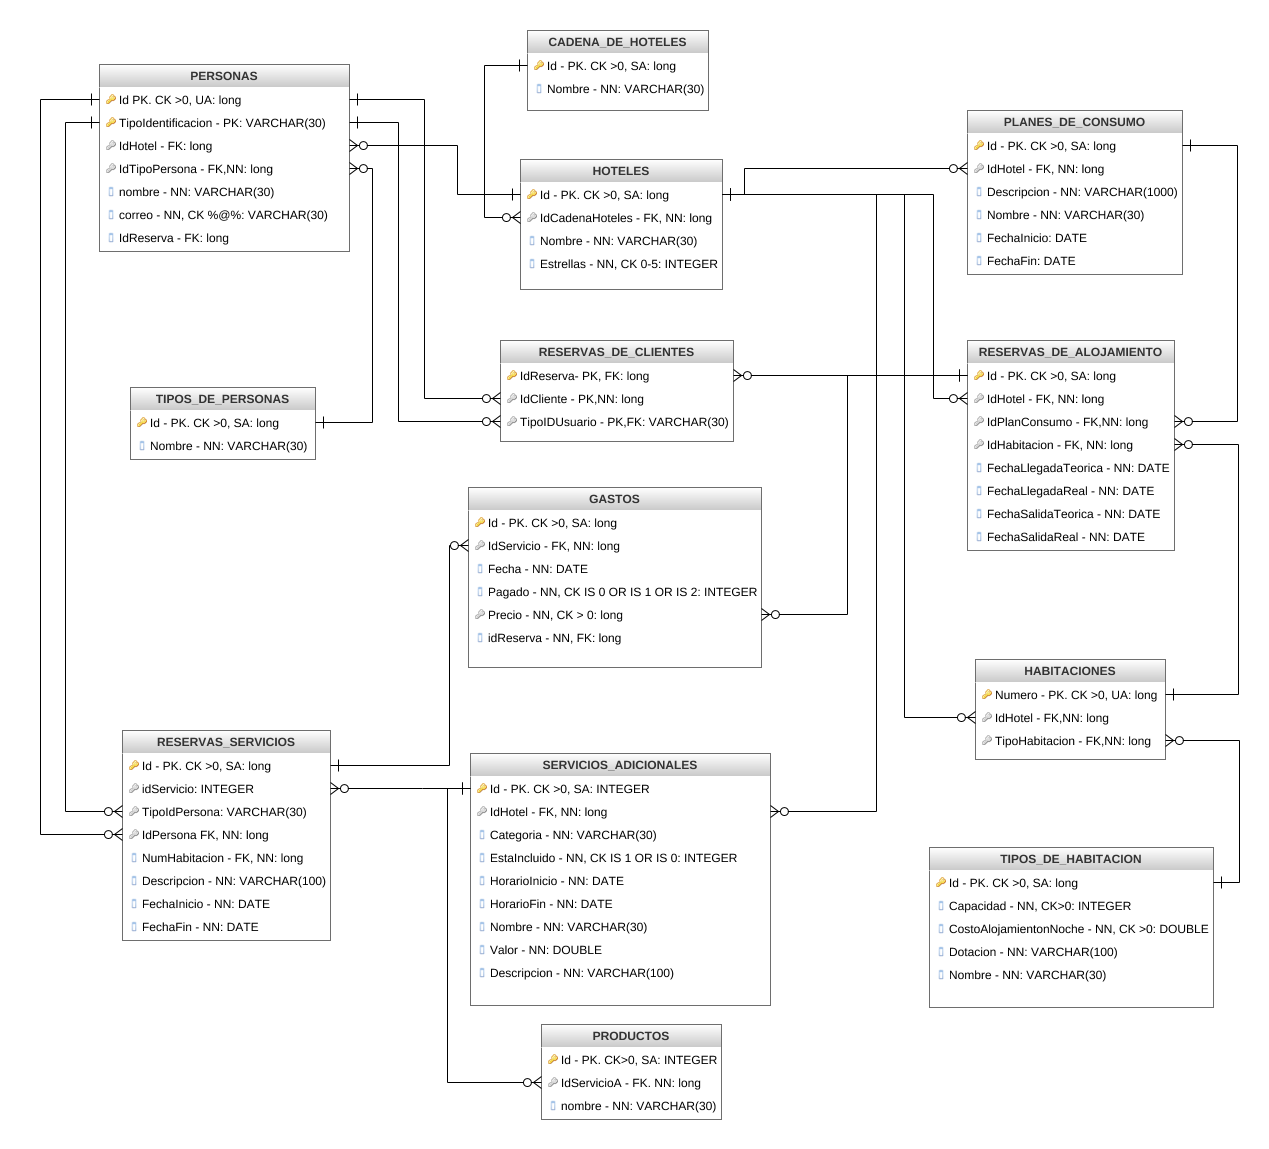
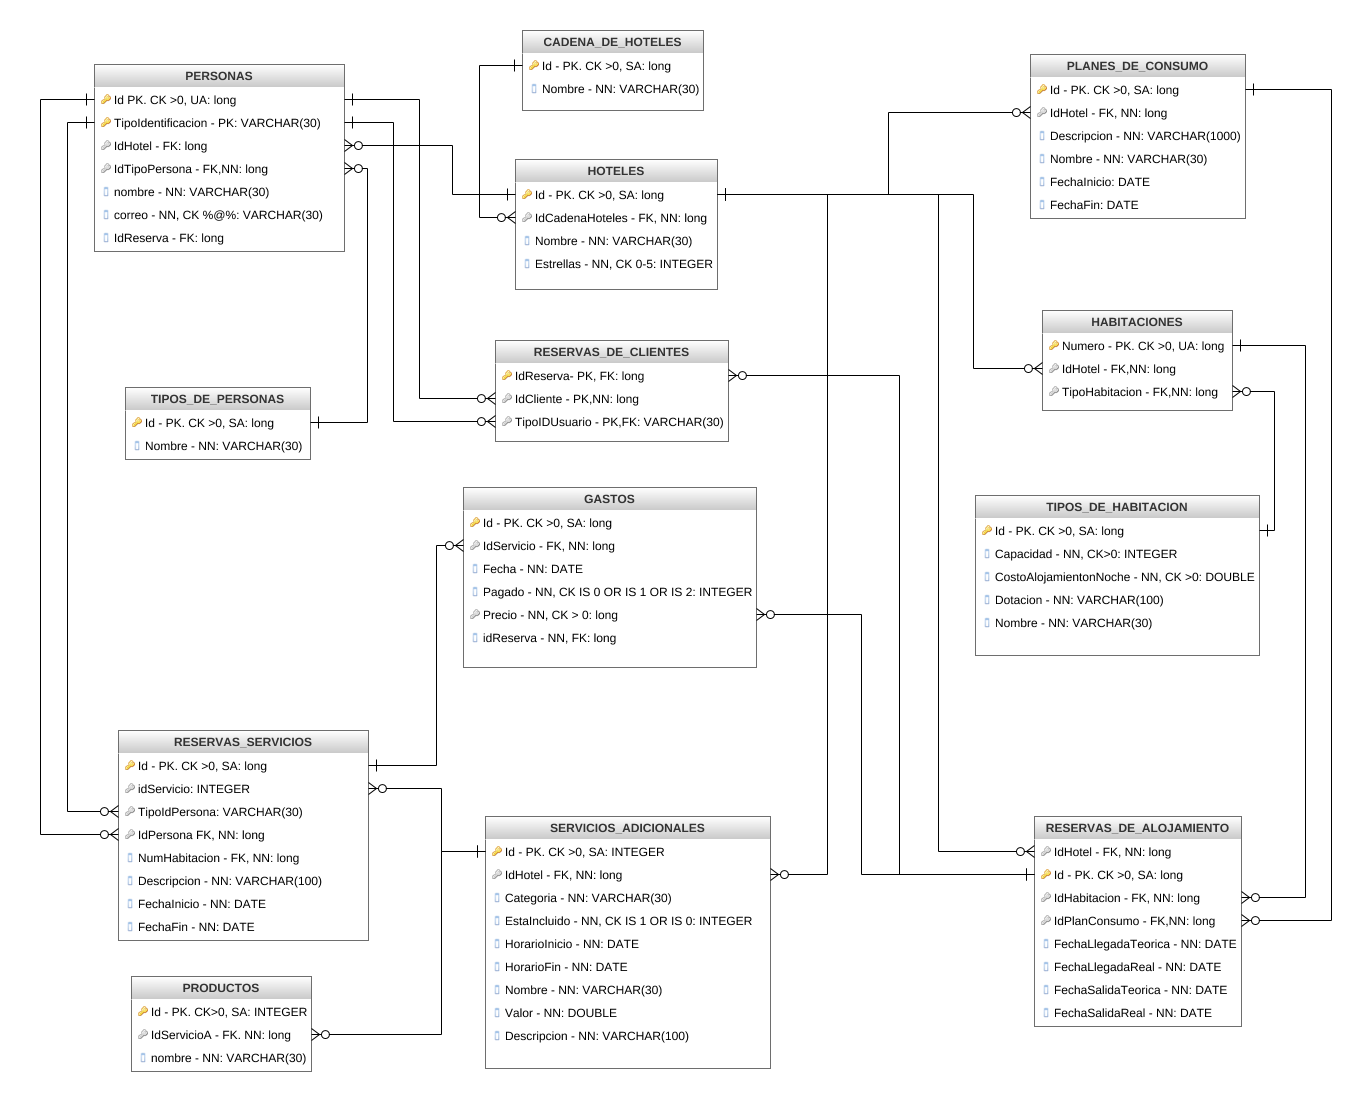
Corrección en diseño del relacional
Me estaba enredando entonces lo puse más leíble

diff --git a/src/test/java/uniandes/isis2304/parranderos/test/Tests1.java b/src/test/java/uniandes/isis2304/parranderos/test/Tests1.java
@@ -15,7 +15,7 @@ import uniandes.isis2304.parranderos.persistencia.PersistenciaHotelAndes;
 public class Tests1 {
 	
 	/** The pha. */
-	PersistenciaHotelAndes pha = PersistenciaHotelAndes.getInstance();
+	private PersistenciaHotelAndes pha = PersistenciaHotelAndes.getInstance();
 	
 	
 	/**
@@ -142,6 +142,47 @@ public class Tests1 {
 		}
 	}
 	
+	/**
+	 * RF 14 exitoso.
+	 */
+	@Test 
+	public void RF14Exitoso()
+	{
+		
+		ArrayList<Integer> servicios = new ArrayList<>();
+		ArrayList<Integer> habitaciones = new ArrayList<>();
+
+		try
+		{
+			pha.RF14( habitaciones, servicios, "01/02/2019" );
+			assertTrue(true);
+		}
+		catch (Exception e)
+		{
+			e.printStackTrace();
+		}
+	}
+
+	/**
+	 * RF 14 fallo.
+	 */
+	@Test 
+	public void RF14Fallo()
+	{
+		
+		ArrayList<Integer> servicios = new ArrayList<>();
+		ArrayList<Integer> habitaciones = new ArrayList<>();
+		habitaciones.add(0);
+		servicios.add(0);
+		try {
+			pha.RF13(habitaciones, servicios);
+			
+		} catch (Exception e) {
+			// TODO Auto-generated catch block
+			assertTrue(true);
+		}
+	}
+
 	/**
 	 * RF 15 exitoso.
 	 */
